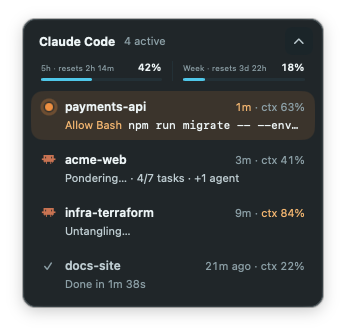
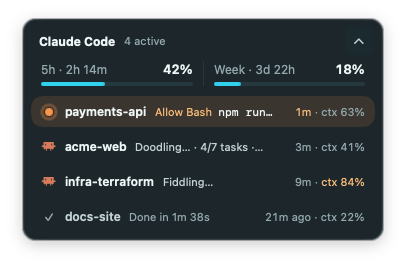
One line per session, Patter titles, GitHub link in Settings
- Session rows in the menu, HUD and notch are a single line: name, what
  it's up to, then time and context. The branch moved to the tooltip.
- The menu and HUD are titled Patter, with the session count beside it.
- HUD: larger usage text, and 360pt wide so the one-line rows fit.
- Settings header: the version beside the name, and a link to
  github.com/JordanYefet/patter. The window fits every section.
- README: fresh screenshots, clone URL.

Claude-Session: https://claude.ai/code/session_01QEzt93ThN3baczKf3syXDF

diff --git a/Sources/Patter/SessionRow.swift b/Sources/Patter/SessionRow.swift
@@ -18,7 +18,7 @@ struct SessionRow: View {
                 content(now: context.date)
             }
             .padding(.horizontal, style == .full ? 12 : 10)
-            .padding(.vertical, style == .full ? 10 : 8)
+            .padding(.vertical, style == .full ? 9 : 8)
             .frame(maxWidth: .infinity, alignment: .leading)
             .modifier(RowSurface(
                 shape: RoundedRectangle(cornerRadius: style == .full ? 10 : 12, style: .continuous),
@@ -29,35 +29,36 @@ struct SessionRow: View {
         }
         .buttonStyle(.plain)
         .onHover { hovering = $0 }
-        .help("Bring \(session.terminal ?? "the terminal") to the front")
+        .help(help)
     }
 
-    /// Two lines at most: name and status on top, one line of detail below.
-    @ViewBuilder
+    /// One line: name, then what it's up to, then time and context on the
+    /// right. When space runs out the detail gives way first.
     private func content(now: Date) -> some View {
-        VStack(alignment: .leading, spacing: 4) {
-            HStack(spacing: 8) {
-                PhaseIndicator(phase: session.phase)
-                Text(session.projectName)
-                    .font(.system(size: style == .full ? 13 : 12, weight: .semibold))
-                    .foregroundStyle(session.phase == .idle ? palette.textSecondary : palette.text)
-                    .lineLimit(1)
-                if style == .full, let branch = session.branch {
-                    Chip(text: branch)
-                }
-                Spacer(minLength: 8)
-                trailing(now: now)
-                    .font(.system(size: style == .full ? 12 : 11))
-                    .monospacedDigit()
-                    .lineLimit(1)
-                    .layoutPriority(1)
-            }
-
+        HStack(spacing: 8) {
+            PhaseIndicator(phase: session.phase)
+            Text(session.projectName)
+                .font(.system(size: style == .full ? 13 : 12, weight: .semibold))
+                .foregroundStyle(session.phase == .idle ? palette.textSecondary : palette.text)
+                .lineLimit(1)
+                .layoutPriority(2)
             detail
                 .font(.system(size: style == .full ? 12 : 11))
                 .lineLimit(1)
-                .padding(.leading, PhaseIndicator.width + 8)
+            Spacer(minLength: 6)
+            trailing(now: now)
+                .font(.system(size: style == .full ? 12 : 11))
+                .monospacedDigit()
+                .lineLimit(1)
+                .layoutPriority(1)
         }
+    }
+
+    /// The branch has no room in the row, so it lives in the tooltip.
+    private var help: String {
+        let open = "Click to bring \(session.terminal ?? "the terminal") to the front"
+        guard let branch = session.branch else { return open }
+        return "\(session.projectName) on \(branch)\n\(open)"
     }
 
     @ViewBuilder

diff --git a/Sources/Patter/HUD.swift b/Sources/Patter/HUD.swift
@@ -37,7 +37,7 @@ final class HUDController {
         hosting.sizingOptions = .preferredContentSize
 
         let panel = NSPanel(
-            contentRect: NSRect(x: 0, y: 0, width: 300, height: 120),
+            contentRect: NSRect(x: 0, y: 0, width: HUDView.width, height: 120),
             styleMask: [.borderless, .nonactivatingPanel],
             backing: .buffered,
             defer: false
@@ -55,7 +55,7 @@ final class HUDController {
 
         if !panel.setFrameUsingName("PatterHUD"), let screen = NSScreen.main {
             let visible = screen.visibleFrame
-            panel.setFrameTopLeftPoint(NSPoint(x: visible.maxX - 300 - 24, y: visible.maxY - 16))
+            panel.setFrameTopLeftPoint(NSPoint(x: visible.maxX - HUDView.width - 24, y: visible.maxY - 16))
         }
         panel.setFrameAutosaveName("PatterHUD")
         // Expanding near a screen edge would grow the card off screen.
@@ -69,6 +69,9 @@ final class HUDController {
 }
 
 struct HUDView: View {
+    /// Wide enough for a one-line session row: name, Claude's word, time, context.
+    static let width: CGFloat = 360
+
     @EnvironmentObject private var model: AppModel
     @AppStorage("hudCollapsed") private var collapsed = false
 
@@ -91,7 +94,7 @@ struct HUDView: View {
 
     private var title: some View {
         HStack(spacing: 8) {
-            Text("Claude Code").font(.system(size: 12, weight: .bold))
+            Text("Patter").font(.system(size: 12, weight: .bold))
             Text(model.summary.active == 0 ? "idle" : "\(model.summary.active) active")
                 .font(.system(size: 11)).foregroundStyle(Theme.textTertiary)
         }
@@ -120,7 +123,7 @@ struct HUDView: View {
             }
         }
         .padding(8)
-        .frame(width: 300)
+        .frame(width: Self.width)
         .background(WindowDragArea())
         .panelSurface(RoundedRectangle(cornerRadius: 14))
     }
@@ -154,7 +157,7 @@ struct HUDView: View {
         .overlay(WindowDragArea { setCollapsed(false) }.clipShape(Capsule()))
         .accessibilityElement(children: .combine)
         .accessibilityAddTraits(.isButton)
-        .accessibilityLabel("Expand Claude Code status")
+        .accessibilityLabel("Expand Patter")
         .accessibilityAction { setCollapsed(false) }
     }
 

diff --git a/Sources/Patter/PatterApp.swift b/Sources/Patter/PatterApp.swift
@@ -44,13 +44,17 @@ struct SettingsView: View {
                         .resizable()
                         .frame(width: 44, height: 44)
                     VStack(alignment: .leading, spacing: 2) {
-                        Text("Patter").font(.headline)
+                        HStack(alignment: .firstTextBaseline, spacing: 6) {
+                            Text("Patter").font(.headline)
+                            if let version = Bundle.main.object(forInfoDictionaryKey: "CFBundleShortVersionString") as? String {
+                                Text(version).font(.caption).foregroundStyle(.secondary)
+                            }
+                        }
                         Text("Created by Jordan Yefet Berman").foregroundStyle(.secondary)
+                        Link("github.com/JordanYefet/patter", destination: URL(string: "https://github.com/JordanYefet/patter")!)
+                            .font(.callout)
                     }
                     Spacer()
-                    if let version = Bundle.main.object(forInfoDictionaryKey: "CFBundleShortVersionString") as? String {
-                        Text("Version \(version)").font(.caption).foregroundStyle(.secondary)
-                    }
                 }
             }
             Section("Show") {
@@ -98,7 +102,7 @@ struct SettingsView: View {
         .formStyle(.grouped)
         // A grouped Form scrolls, so the window would open at a default height
         // and hide the last sections: size it to fit them.
-        .frame(width: 440, height: 700)
+        .frame(width: 440, height: 760)
         .padding(.vertical, 8)
     }
 }

diff --git a/Sources/Patter/UsageView.swift b/Sources/Patter/UsageView.swift
@@ -87,26 +87,26 @@ private struct MiniLimit: View {
     @ThemePalette private var palette
 
     var body: some View {
-        VStack(alignment: .leading, spacing: 4) {
+        VStack(alignment: .leading, spacing: 5) {
             HStack {
                 Text(label).foregroundStyle(palette.textTertiary)
-                    .lineLimit(1)
-                    .minimumScaleFactor(0.8)
+                .lineLimit(1)
                 Spacer(minLength: 4)
                 Text(Format.percent(window.usedPercentage))
+                    .font(.system(size: 13, weight: .semibold))
                     .foregroundStyle(window.isHigh ? palette.attentionText : palette.text)
-                    .fontWeight(.semibold)
                     .monospacedDigit()
                     .layoutPriority(1)
             }
-            .font(.system(size: 10))
-            Meter(fraction: window.usedPercentage / 100, color: window.isHigh ? palette.attention : palette.accent, height: 3)
+            .font(.system(size: 12))
+            Meter(fraction: window.usedPercentage / 100, color: window.isHigh ? palette.attention : palette.accent, height: 4)
         }
         .frame(maxWidth: .infinity)
     }
 
+    /// "5h · 2h 14m": the window and the time until it resets.
     private var label: String {
         guard let resets = Format.resets(window.resetsAt, now: now) else { return title }
-        return "\(title) · \(resets.replacingOccurrences(of: "Resets in ", with: "resets "))"
+        return "\(title) · \(resets.replacingOccurrences(of: "Resets in ", with: ""))"
     }
 }

diff --git a/Sources/Patter/Components.swift b/Sources/Patter/Components.swift
@@ -63,20 +63,6 @@ struct Meter: View {
 /// A small text tag (the branch on a session row). Always a flat fill, even
 /// in the glass theme: it sits inside rows that can be glass themselves, and
 /// glass nested in glass melts into it.
-struct Chip: View {
-    let text: String
-    @ThemePalette private var palette
-
-    var body: some View {
-        Text(text)
-            .font(Theme.mono)
-            .foregroundStyle(palette.textSecondary)
-            .lineLimit(1)
-            .padding(.horizontal, palette.glass ? 7 : 6)
-            .padding(.vertical, 1)
-            .background(palette.chip, in: palette.glass ? AnyShape(Capsule()) : AnyShape(RoundedRectangle(cornerRadius: 4)))
-    }
-}
 
 struct SectionLabel: View {
     let text: String

diff --git a/Sources/Patter/MenuContentView.swift b/Sources/Patter/MenuContentView.swift
@@ -67,8 +67,8 @@ struct MenuContentView: View {
 
     private var header: some View {
         HStack {
-            VStack(alignment: .leading, spacing: 2) {
-                Text("Claude Code").font(.system(size: 13, weight: .bold))
+            HStack(alignment: .firstTextBaseline, spacing: 8) {
+                Text("Patter").font(.system(size: 13, weight: .bold))
                 Text(subtitle).font(.system(size: 12)).foregroundStyle(Theme.textTertiary)
             }
             Spacer()

diff --git a/README.md b/README.md
@@ -11,7 +11,7 @@ Created by **Jordan Yefet Berman**.
 <p align="center">
   <img src="docs/images/menu.png" width="392" alt="The Patter menu: 5-hour and weekly usage, then sessions grouped into Needs you, Working and Recent">
   &nbsp;
-  <img src="docs/images/hud.png" width="300" alt="The floating HUD with the same sessions in a compact card">
+  <img src="docs/images/hud.png" width="360" alt="The floating HUD with the same sessions in a compact card">
 </p>
 
 <p align="center">
@@ -22,7 +22,7 @@ Created by **Jordan Yefet Berman**.
 
 | Placement | Best for |
 | --- | --- |
-| **Menu bar** (always on) | The full picture: each session's project, branch, current action, task progress, context window, plus account usage at the top. The icon is Clawd, the Claude Code mascot: it walks while anything is working, stands still when done, gets a yellow badge with a count when sessions need you, and turns grey with a red "!" and a countdown when you've hit your 5-hour or weekly limit. |
+| **Menu bar** (always on) | The full picture: one line per session with its project, what it's up to, task progress and context window (hover for the branch), plus account usage at the top. The icon is Clawd, the Claude Code mascot: it walks while anything is working, stands still when done, gets a yellow badge with a count when sessions need you, and turns grey with a red "!" and a countdown when you've hit your 5-hour or weekly limit. |
 | **Floating HUD** | A big single monitor. Always on top, never steals focus, drag it anywhere, collapse it to a pill (click anywhere on the pill to expand it again). |
 | **Notch** | Notched MacBooks. "Ears" grow out of the notch while sessions run, turn orange when one needs you, and the full list drops down on hover. |
 
@@ -62,7 +62,7 @@ Appearance (Settings → Appearance):
 ## Install
 
 ```sh
-git clone https://github.com/<you>/patter.git
+git clone https://github.com/JordanYefet/patter.git
 cd patter
 
 # 1. Register the hooks and status line in ~/.claude/settings.json (backed up first)
